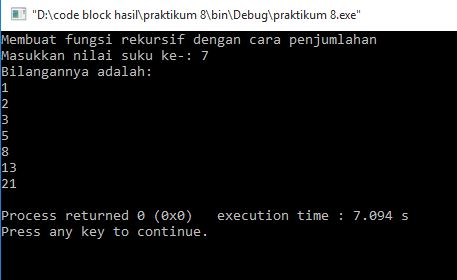
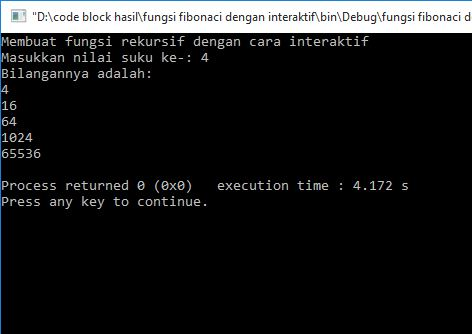
Add files via upload
rekursif dengan cara interaktif

diff --git a/main.cpp b/main.cpp
@@ -6,15 +6,16 @@ using namespace std;
 
      int main()
      {
-     cout<<"Membuat fungsi rekursif dengan cara penjumlahan\n";
+     cout<<"Membuat fungsi rekursif dengan cara interaktif\n";
      cout<<"Masukkan nilai suku ke-: ";cin>>suku;
 
      cout<<"Bilangannya adalah: \n";
-     a=0;b=1;
+     a=suku;b=suku;
+     cout<<a<<endl;
 
      for(int i=1; i<=suku; i++)
     {
-    c = a + b;
+    c = a * b;
     a = b;
     b = c;
 
